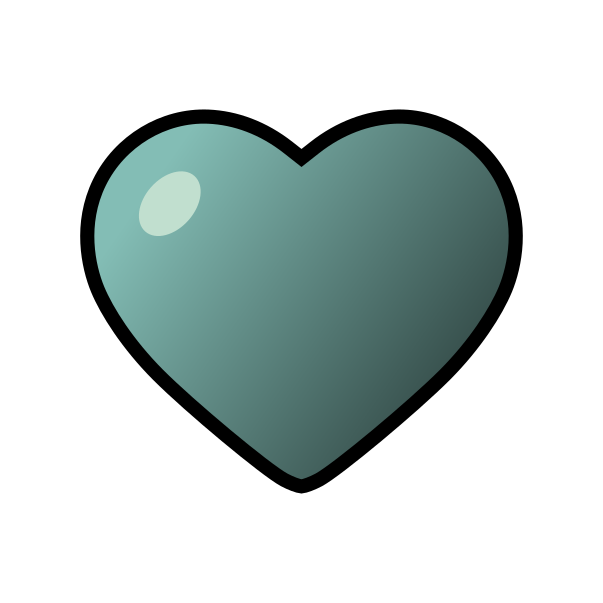
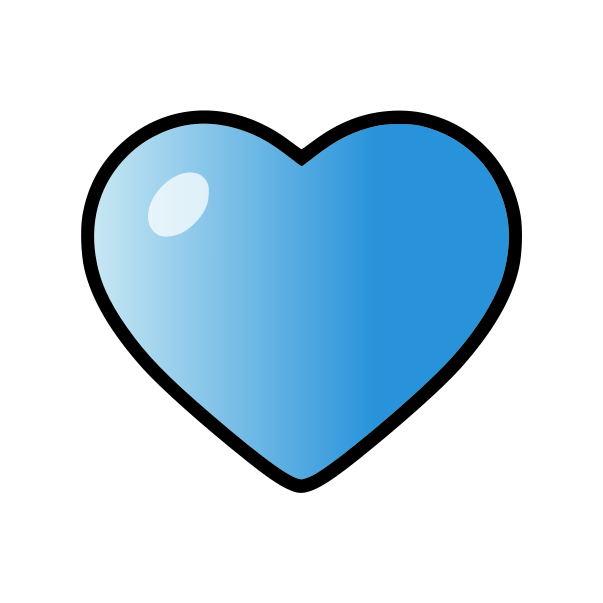
new heart boost system

Changed region(s): [[0.1194, 0.1791, 0.8657, 0.806]]

diff --git a/main.js b/main.js
@@ -6,7 +6,8 @@ const ICON_TINY_HTML = '<span class="heart-small3">❤</span>';
 const ICON_SMALL_HTML = '<span class="heart-small2">❤</span>';
 const ICON_BIG_HTML   = '❤';
 const ICON_GOLD_HTML  = '💛';
-const ICON_PLAT_HTML  = '💙';
+const ICON_PLAT_HTML  = '🩶';
+const ICON_DIAM_HTML  = '💙';
 
 const GEAR_ICON_BY_SKILL = {
   Aim: "https://i.postimg.cc/349bq0ZG/aim.png",
@@ -165,8 +166,9 @@ const heartBoosts = {
   2: 1,     // Medium
   3: 3,     // Big
   4: 5,     // Gold
-  5: 8,      // Platinum
-  6: 4, // Fire Heart
+  5: 6,     // Platinum
+  6: 8,     // Diamond
+  7: 4,     // Fire Heart
 };
 const moraleBoosts = { 0: 0, 1: 1, 2: 2, 3: 3 };
 
@@ -1196,17 +1198,12 @@ updateGamesButtonState();
 
 
     // RESET HEART SEASONS
-const tiny  = document.querySelector(".season-tiny");
-const small = document.querySelector(".season-small");
-const big   = document.querySelector(".season-big");
-const gold  = document.querySelector(".season-gold");
-const plat  = document.querySelector(".season-plat");
-
-if (tiny)  { tiny.textContent  = ""; tiny.style.color  = ""; }
-if (small) { small.textContent = "S9";  small.style.color = ""; }
-if (big)   { big.textContent   = "S11"; big.style.color   = ""; }
-if (gold)  { gold.textContent  = "S15"; gold.style.color  = ""; }
-if (plat)  { plat.textContent  = "S23"; plat.style.color  = ""; }
+  [".season-tiny", ".season-small", ".season-big",
+     ".season-gold", ".season-plat", ".season-diamond"]
+      .forEach(sel => {
+        const el = document.querySelector(sel);
+        if (el) { el.textContent = ""; el.style.color = ""; }
+      });
 
     // RESET LOYAL
     const gameImgBtn = document.getElementById("game-img-btn");
@@ -1286,7 +1283,7 @@ loadedAge = data.playerAge;
 /* ---------------- HEART / MORALE / MAX ---------------- */
 if (heartBtn) {
   heartBtn.addEventListener("click", () => {
-    heartState = (heartState + 1) % 7;
+    heartState = (heartState + 1) % 8;
     heartBtn.className = "action-btn heart-grey-btn";
     if (heartState > 0) heartBtn.classList.add(`heart-active-${heartState}`);
     renderSkills();
@@ -1909,17 +1906,12 @@ if (gameOkBtn) {
     updateGamesButtonState();
 
     // RESET HEART SEASONS
-    const tiny  = document.querySelector(".season-tiny");
-const small = document.querySelector(".season-small");
-const big   = document.querySelector(".season-big");
-const gold  = document.querySelector(".season-gold");
-const plat  = document.querySelector(".season-plat");
-
-if (tiny)  { tiny.textContent  = ""; tiny.style.color  = ""; }
-if (small) { small.textContent = "S9";  small.style.color = ""; }
-if (big)   { big.textContent   = "S11"; big.style.color   = ""; }
-if (gold)  { gold.textContent  = "S15"; gold.style.color  = ""; }
-if (plat)  { plat.textContent  = "S23"; plat.style.color  = ""; }
+[".season-tiny", ".season-small", ".season-big",
+ ".season-gold", ".season-plat", ".season-diamond"]
+  .forEach(sel => {
+    const el = document.querySelector(sel);
+    if (el) { el.textContent = ""; el.style.color = ""; }
+  });
 
     // RESET LOYAL
     const gameImgBtn = document.getElementById("game-img-btn");
@@ -1948,7 +1940,7 @@ if (ageEl)  ageEl.textContent  = loadedAge;
 function updateHeartRequirementLabels() {
   const rows = document.querySelectorAll(".heart-row");
 
-  const base = [50, 100, 200, 400, 800];
+  const base = [50, 100, 200, 400, 600, 800];
 
   let mult = 1;
 
@@ -1969,8 +1961,9 @@ function updateHeartsBasedOnGames(games) {
   const bigEl   = document.querySelector(".season-big");
   const goldEl  = document.querySelector(".season-gold");
   const platEl  = document.querySelector(".season-plat");
+  const diamEl  = document.querySelector(".season-diamond");
 
-  if (!tinyEl || !smallEl || !bigEl || !goldEl || !platEl) return;
+  if (!tinyEl || !smallEl || !bigEl || !goldEl || !platEl || !diamEl) return;
 
   const loyal = document.getElementById("loyal-status").textContent === "YES";
 const antisocial = document.getElementById("antisocial-btn")?.classList.contains("active");
@@ -1989,7 +1982,8 @@ tinyReq  = Math.floor(50 * mult);
 smallReq = Math.floor(100 * mult);
 bigReq   = Math.floor(200 * mult);
 goldReq  = Math.floor(400 * mult);
-platReq  = Math.floor(800 * mult);
+platReq  = Math.floor(600 * mult);
+const diamReq = Math.floor(800 * mult);
 
 
   const ageText = document.querySelector(".player-age")?.textContent || "";
@@ -2035,17 +2029,22 @@ if (ageAtSeason >= maxAge) return "❌";
   bigEl.textContent   = label(bigReq);
   goldEl.textContent  = label(goldReq);
   platEl.textContent  = label(platReq);
+  diamEl.textContent  = label(diamReq);
 
   [
     [tinyEl, tinyReq],
     [smallEl, smallReq],
     [bigEl, bigReq],
     [goldEl, goldReq],
-    [platEl, platReq]
+    [platEl, platReq],
+    [diamEl, diamReq]
   ].forEach(([el, req]) => {
     el.style.color = games >= req ? "#76ff76" : "";
   });
 }
+
+
+/* --- DOM READY: setup loyal + games input listeners --- */
 
 
 /* --- DOM READY: setup loyal + games input listeners --- */
@@ -2223,7 +2222,8 @@ tinyReq  = Math.floor(50 * mult);
 smallReq = Math.floor(100 * mult);
 bigReq   = Math.floor(200 * mult);
 goldReq  = Math.floor(400 * mult);
-platReq  = Math.floor(800 * mult);
+platReq  = Math.floor(600 * mult);
+const diamReq = Math.floor(800 * mult);
 
 
 function seasonGainFor(req) {
@@ -2242,6 +2242,7 @@ const tinySeason = seasonGainFor(tinyReq);
   const bigSeason   = seasonGainFor(bigReq);
   const goldSeason  = seasonGainFor(goldReq);
   const platSeason  = seasonGainFor(platReq);
+  const diamSeason  = seasonGainFor(diamReq);
 
   const maxAge = getMaxCareerAge();
 let seasonsLeft = maxAge - age;
@@ -2251,7 +2252,11 @@ let seasonsLeft = maxAge - age;
   let icon = null;
   let finalSeason = null;
 
-  if (platSeason.season <= retireSeason) {
+  if (diamSeason.season <= retireSeason) {
+  icon = ICON_DIAM_HTML;
+  finalSeason = "S" + diamSeason.season;
+
+} else if (platSeason.season <= retireSeason) {
   icon = ICON_PLAT_HTML;
   finalSeason = "S" + platSeason.season;
 
@@ -2316,9 +2321,10 @@ window.addEventListener("load", () => {
   }
 
 
-  v.textContent = "v2.00.9 - 18:12 - July.27.2026";
+  v.textContent = "v2.10.6 - 01:15 - September.1.2026";
 
   u.innerHTML = `
+    <li>New heart Boost system</li>
     <li>Leader Boost limited to 5%</li>
     <li>New Bar System</li>
     <li>Added the new Leadership Boost System</li>

diff --git a/index.html b/index.html
@@ -236,11 +236,16 @@
                     <span>400 games → </span>
                     <span class="season-gold"></span>
                 </div>
+                <div class="heart-row">
+                    <span class="heart-icon">🩶</span>
+                    <span>600 games → </span>
+                    <span class="season-plat"></span>
+                </div>
 
                 <div class="heart-row">
-                    <span class="heart-icon">💙</span>
+                    <span class="heart-icon">🩵</span>
                     <span>800 games → </span>
-                    <span class="season-plat"></span>
+                    <span class="season-diamond"></span>
                 </div>
             </div>
 

diff --git a/style.css b/style.css
@@ -539,9 +539,17 @@ color: #ffffff;
 }
 
 .heart-active-6 {
+    background-image: url('https://i.postimg.cc/jdhT5Rfd/8.png');
+    filter: brightness(1.2);
+}
+
+.heart-active-7 {
     background-image: url('https://i.postimg.cc/DZZNjbdj/4.png');
     filter: brightness(1.2);
 }
+
+
+
 /* MORALE — 0% */
 .morale-btn {
     background-image: url('https://i.postimg.cc/grFzknvR/image.png');
